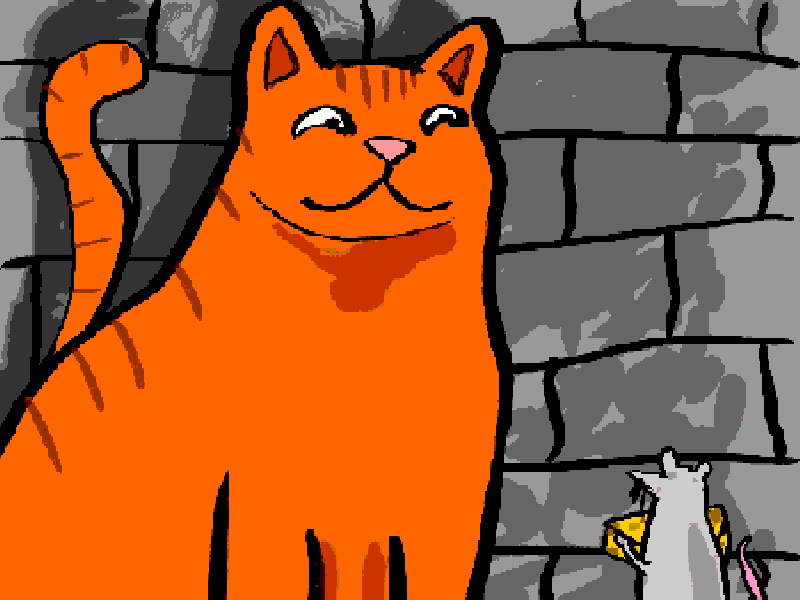
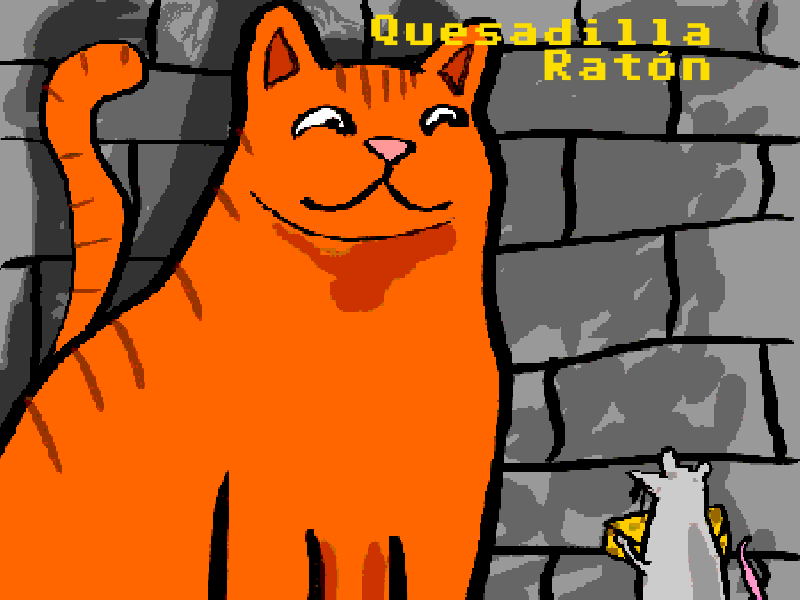
added title to background

Changed region(s): [[0.4375, 0.0, 0.9062, 0.15]]

diff --git a/CatGame/ViewManagers/MenuView.java b/CatGame/ViewManagers/MenuView.java
@@ -1,7 +1,7 @@
 package CatGame.ViewManagers;
 
 /**
- * This is the Menu View Manager Author(s) - Greg Last updated - 3/6/20
+ * This is the Menu View Manager Author(s) - Greg Last updated - 4/22/20
  */
 import CatGame.ButtonExt;
 import CatGame.Controller.MenuController;
@@ -16,11 +16,13 @@ import javafx.scene.layout.AnchorPane;
 import javafx.scene.layout.BackgroundImage;
 import javafx.stage.Stage;
 import javafx.event.EventHandler;
+import javafx.scene.control.Label;
 import javafx.scene.image.Image;
 import javafx.scene.layout.Background;
 import javafx.scene.layout.BackgroundPosition;
 import javafx.scene.layout.BackgroundRepeat;
 import javafx.scene.layout.BackgroundSize;
+import javafx.scene.paint.Color;
 import javafx.scene.text.Font;
 import javafx.scene.text.Text;
 
